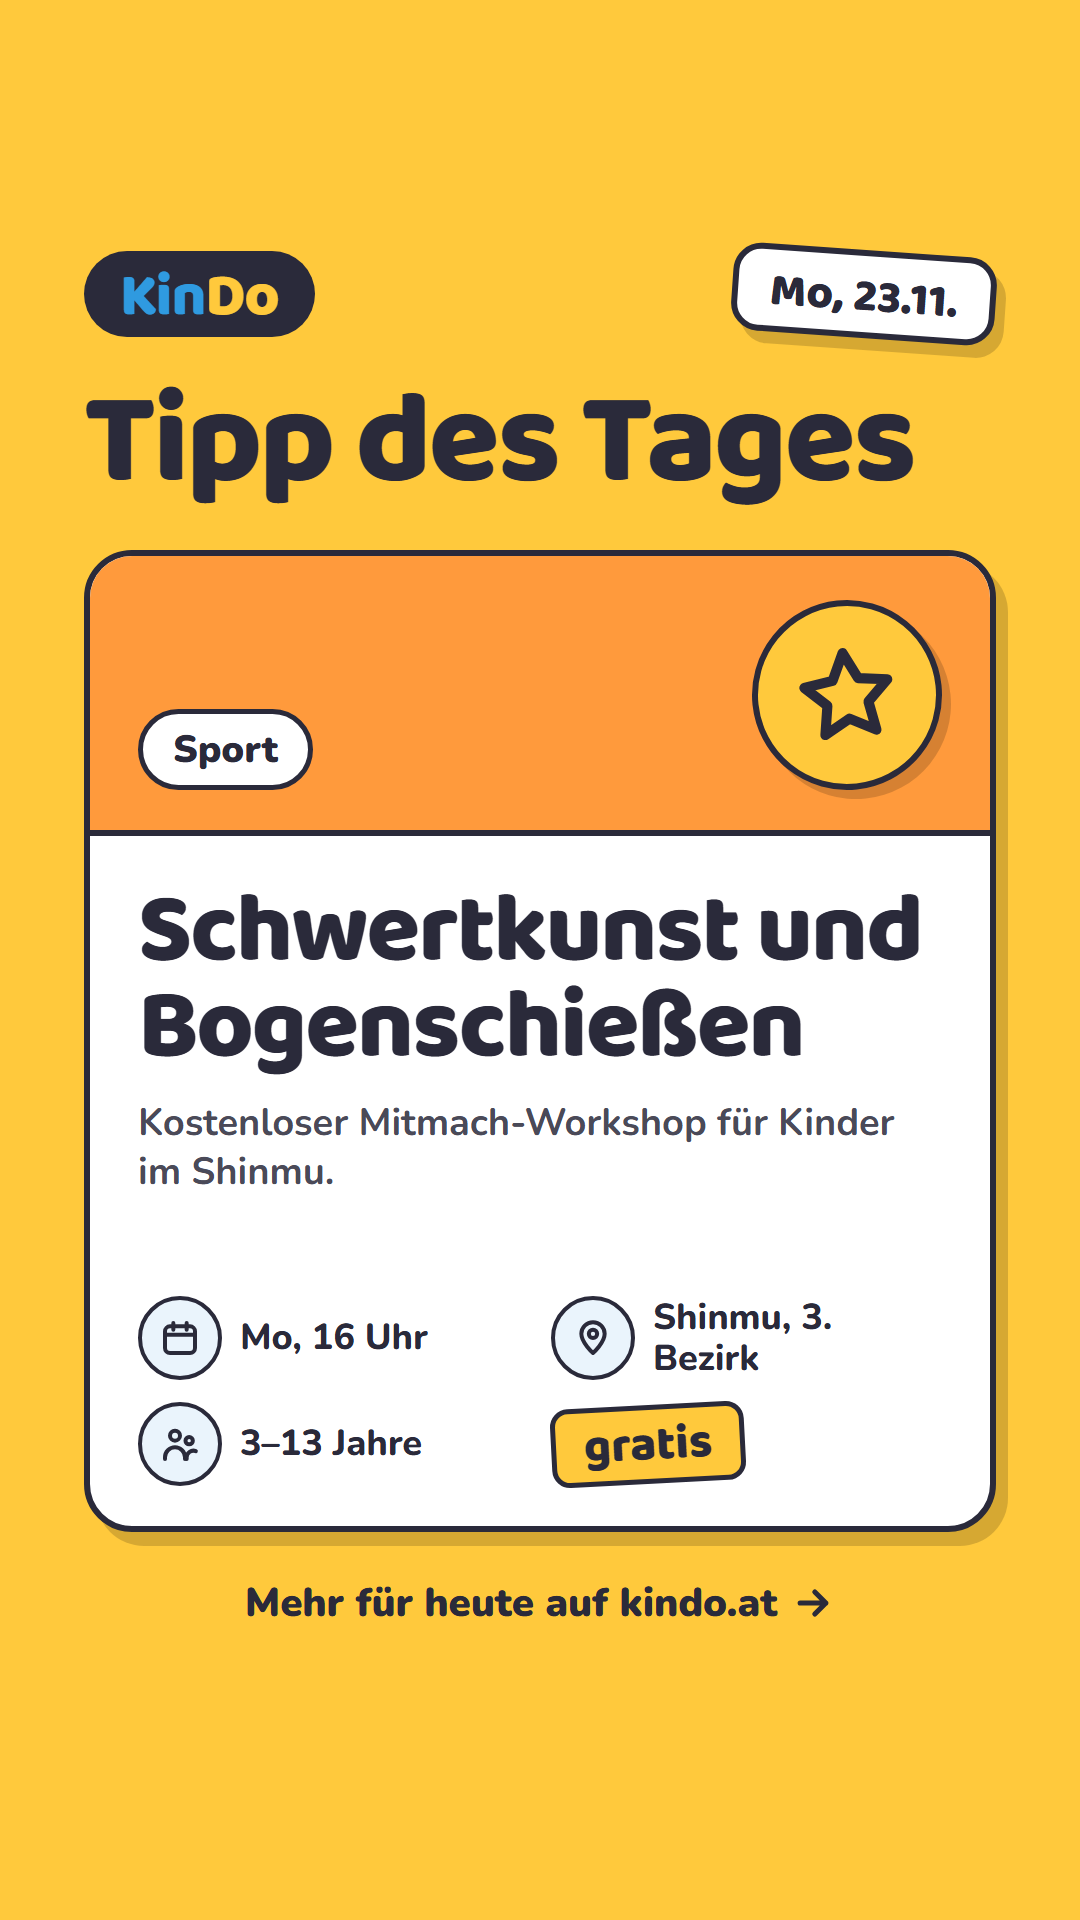
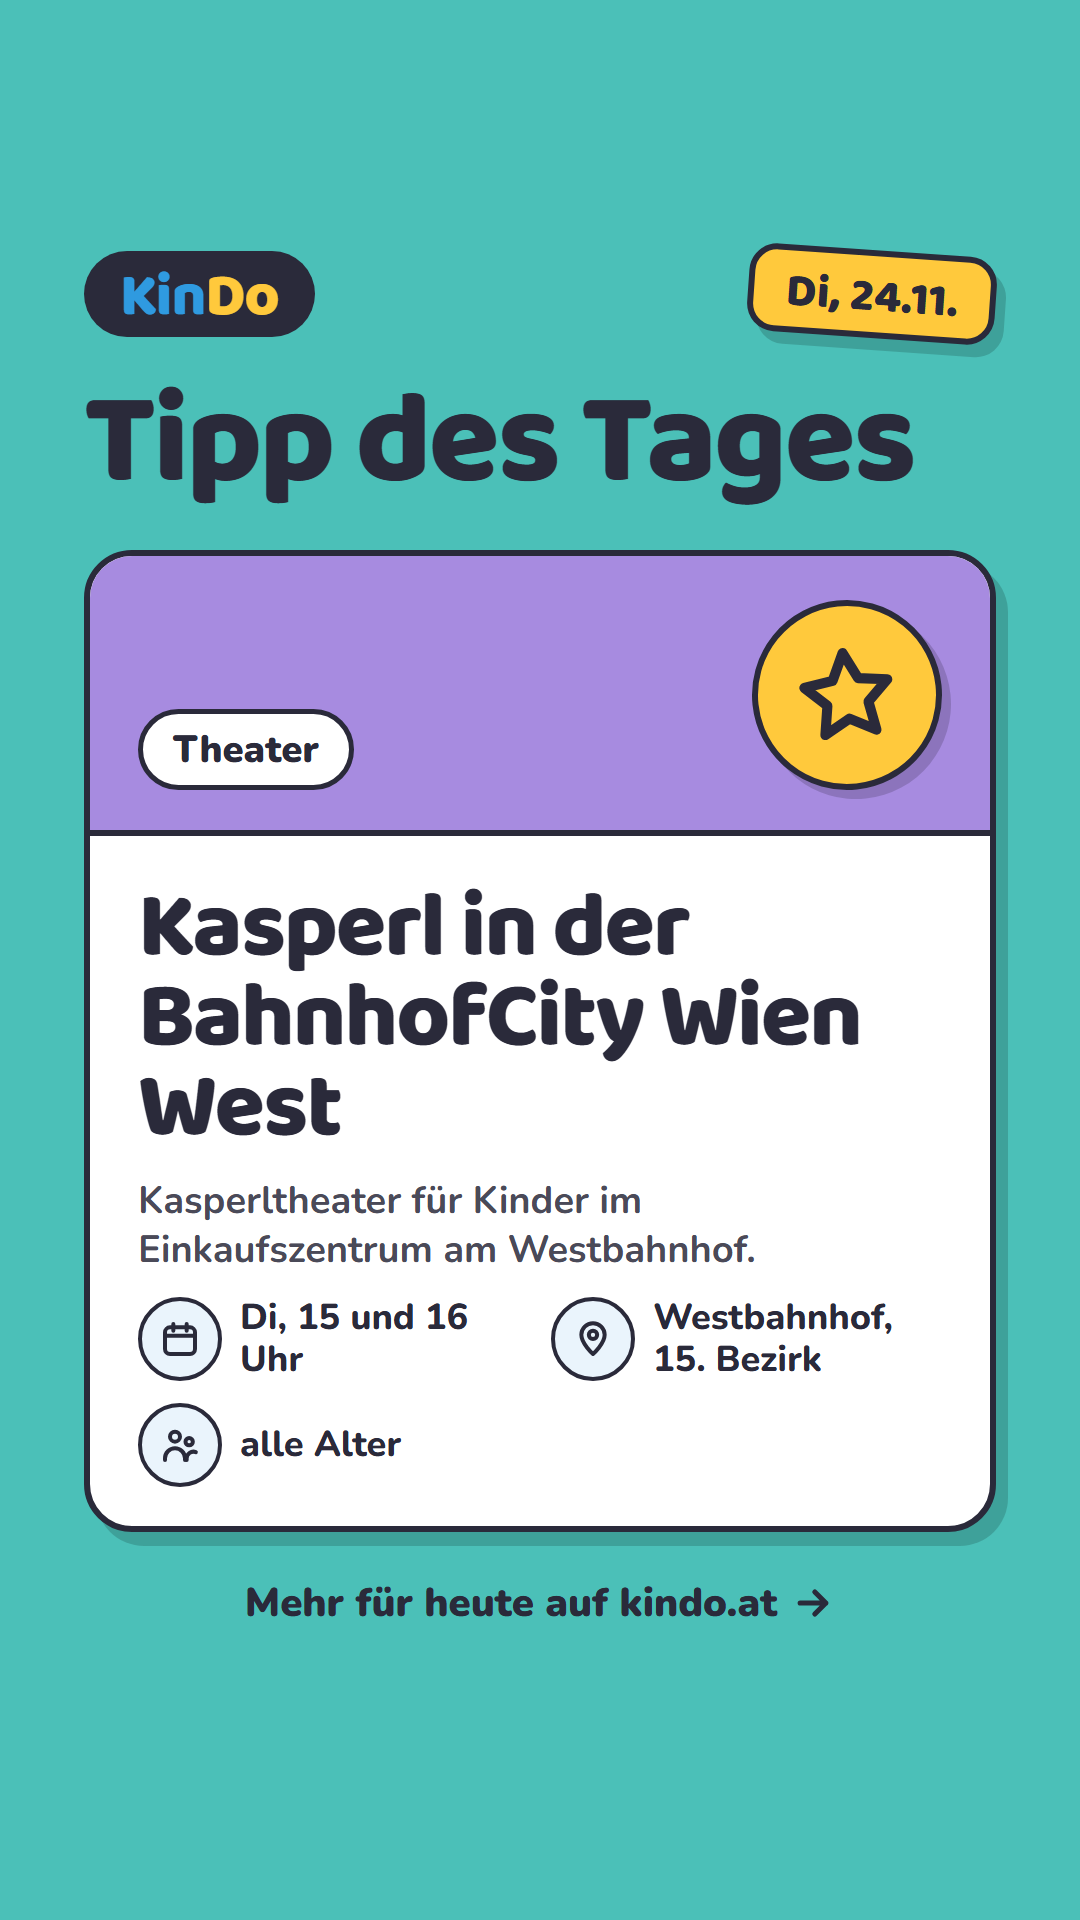
Story Tipp des Tages 2026-11-24

diff --git a/story/README.md b/story/README.md
@@ -1,8 +1,8 @@
-# Tipp des Tages – 23.11.
+# Tipp des Tages – 24.11.
 
-![Tipp des Tages: Schwertkunst und Bogenschießen](2026-11-23/01.png)
+![Tipp des Tages: Kasperl in der BahnhofCity Wien West](2026-11-24/01.png)
 
-**Link für den Sticker:** https://www.kindo.at/veranstaltungen/265283
+**Link für den Sticker:** https://www.kindo.at/veranstaltungen/299635
 
 So geht's: Bild antippen und speichern, in Instagram als Story posten, Link-Sticker mit dem Link oben dazugeben.
 
